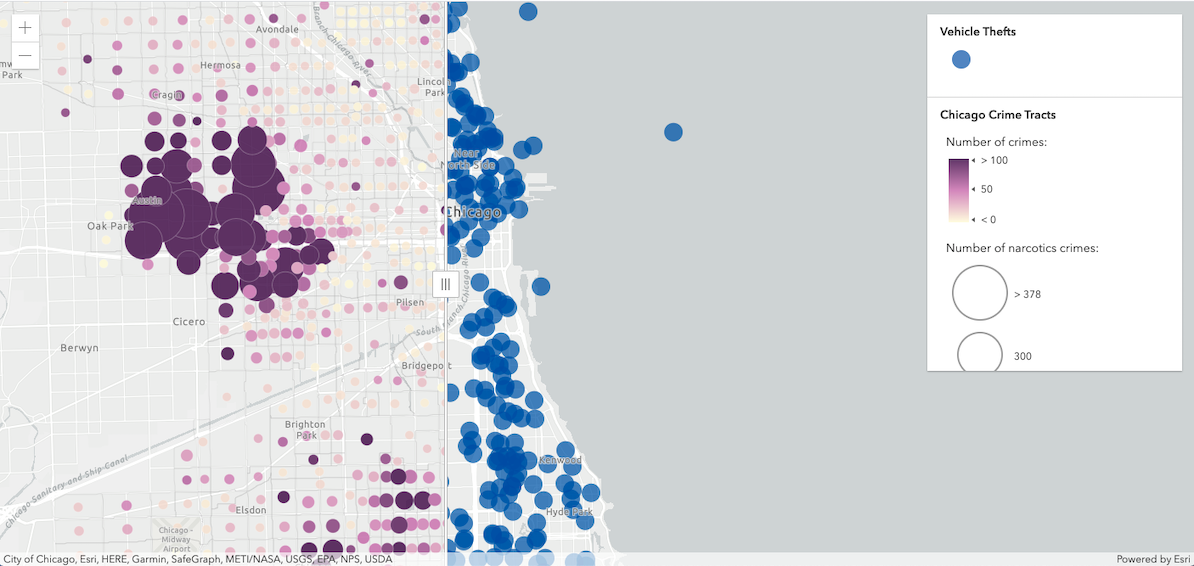
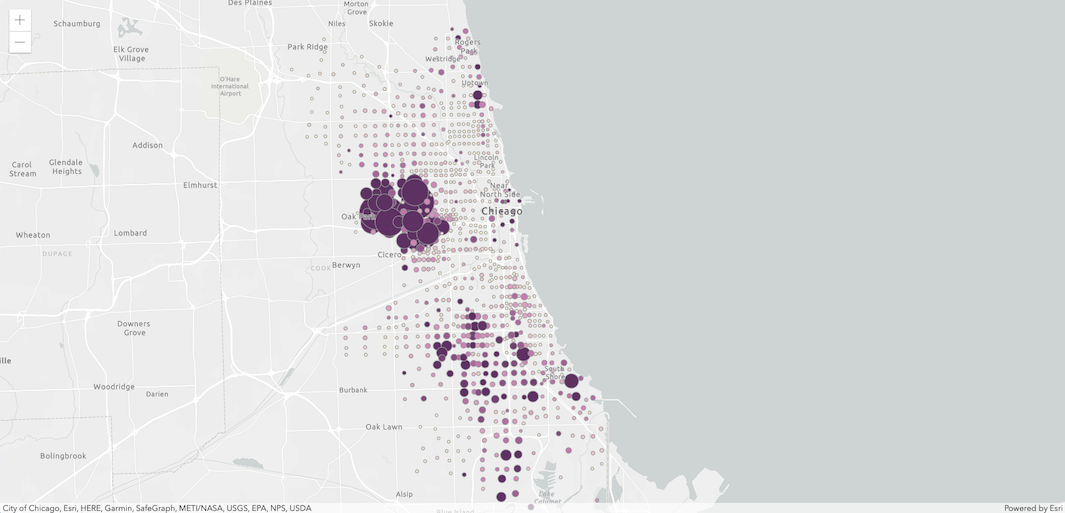
Intro session - update swipe demo and update images

diff --git a/Dev-Summit-2020/Getting-started-web-dev/Demos/Step7_Widgets/js/main.js b/Dev-Summit-2020/Getting-started-web-dev/Demos/Step7_Widgets/js/main.js
@@ -23,7 +23,9 @@ require([
   view.when(function () {
     const chicagoCrime = map.layers.getItemAt(0); // bottom
     const vehicles = map.layers.getItemAt(1); // top of TOC
-    vehicles.visible = true;
+    const homicides = map.layers.getItemAt(2);
+
+    homicides.visible = true;
     // Step 1: Create the widget
     const legend = new Legend({
       // Step 2: Specify any additional properties for the legend. In this case,
@@ -34,8 +36,8 @@ require([
           title: "Chicago Crime Tracts"
         },
         {
-          layer: vehicles,
-          title: "Vehicle Thefts"
+          layer: homicides,
+          title: "Chicago Homicide Data"
         }
       ]
     });
@@ -43,7 +45,7 @@ require([
     const swipe = new Swipe({
       view: view,
       leadingLayers: [chicagoCrime],
-      trailingLayers: [vehicles],
+      trailingLayers: [homicides],
       position: 45
     });
 

diff --git a/Dev-Summit-2020/Getting-started-web-dev/Demos/Step4_Popup/js/main.js b/Dev-Summit-2020/Getting-started-web-dev/Demos/Step4_Popup/js/main.js
@@ -201,7 +201,7 @@ require([
           caption: "Crime rate in comparison to narcotics rate",
           value: {
             theme: "Julie",
-            fields: ["CrimeRate", "NarcoticsRate"],
+            fields: ["CrimeRate", "NarcoticsR"],
           }
         }]
       }

diff --git a/Dev-Summit-2020/Getting-started-web-dev/index.md b/Dev-Summit-2020/Getting-started-web-dev/index.md
@@ -298,7 +298,7 @@ Visualize data within Map or Scene
 </br>
 </br>
 <iframe
-  src="https://carbon.now.sh/embed?bg=rgba(194%2C186%2C206%2C1)&t=one-light&wt=sharp&l=auto&ds=true&dsyoff=3px&dsblur=13px&wc=true&wa=true&pv=30px&ph=36px&ln=false&fl=1&fm=Hack&fs=18px&lh=132%25&si=false&es=4x&wm=false&code=const%2520map%2520%253D%2520new%2520WebMap(%257B%250A%2520%2520portalItem%253A%2520%257B%250A%2520%2520%2520%2520id%253A%2520%2522b45ec95aeeb743399dd4b557abd20ee2%2522%2520%252F%252F%2520Remember%2520portalItem%2520is%2520autocasted%250A%2520%2520%257D%250A%257D)%253B"
+  src="https://carbon.now.sh/embed?bg=rgba(194%2C186%2C206%2C1)&t=one-light&wt=sharp&l=auto&ds=true&dsyoff=3px&dsblur=13px&wc=true&wa=true&pv=30px&ph=36px&ln=false&fl=1&fm=Hack&fs=18px&lh=132%25&si=false&es=4x&wm=false&code=const%2520map%2520%253D%2520new%2520WebMap(%257B%250A%2520%2520portalItem%253A%2520%257B%250A%2520%2520%2520%2520id%253A%2520%2522f9a9a7e3857d4d51b2c801cf8c399add%2522%2520%252F%252F%2520Remember%2520portalItem%2520is%2520autocasted%250A%2520%2520%257D%250A%257D)%253B"
   style="transform:scale(1); width:1024px; height:473px; border:0; overflow:hidden; display:block;"
   sandbox="allow-scripts allow-same-origin">
 </iframe>
@@ -307,8 +307,8 @@ Visualize data within Map or Scene
 
 ### **Demo: Add a web map to an application**
 </br>
-<a href="Demos/Step5_Webmap/" target="_blank">
-  <img style="float: center;" src="Images/Step5_Demo.png">
+<a href="Demos/Step6_Webmap/" target="_blank">
+  <img style="float: center;" src="Images/Step6_Demo.png">
 </a>
 
 ----
@@ -345,8 +345,8 @@ Visualize data within Map or Scene
 
 ### **Demo: Add widgets to the application**
 </br>
-<a href="Demos/Step6_Widgets/" target="_blank">
-  <img style="float: center;" src="Images/Step6_Demo.png">
+<a href="Demos/Step7_Widgets/" target="_blank">
+  <img style="float: center;" src="Images/Step7_Demo.png">
 </a>
 
 ----
